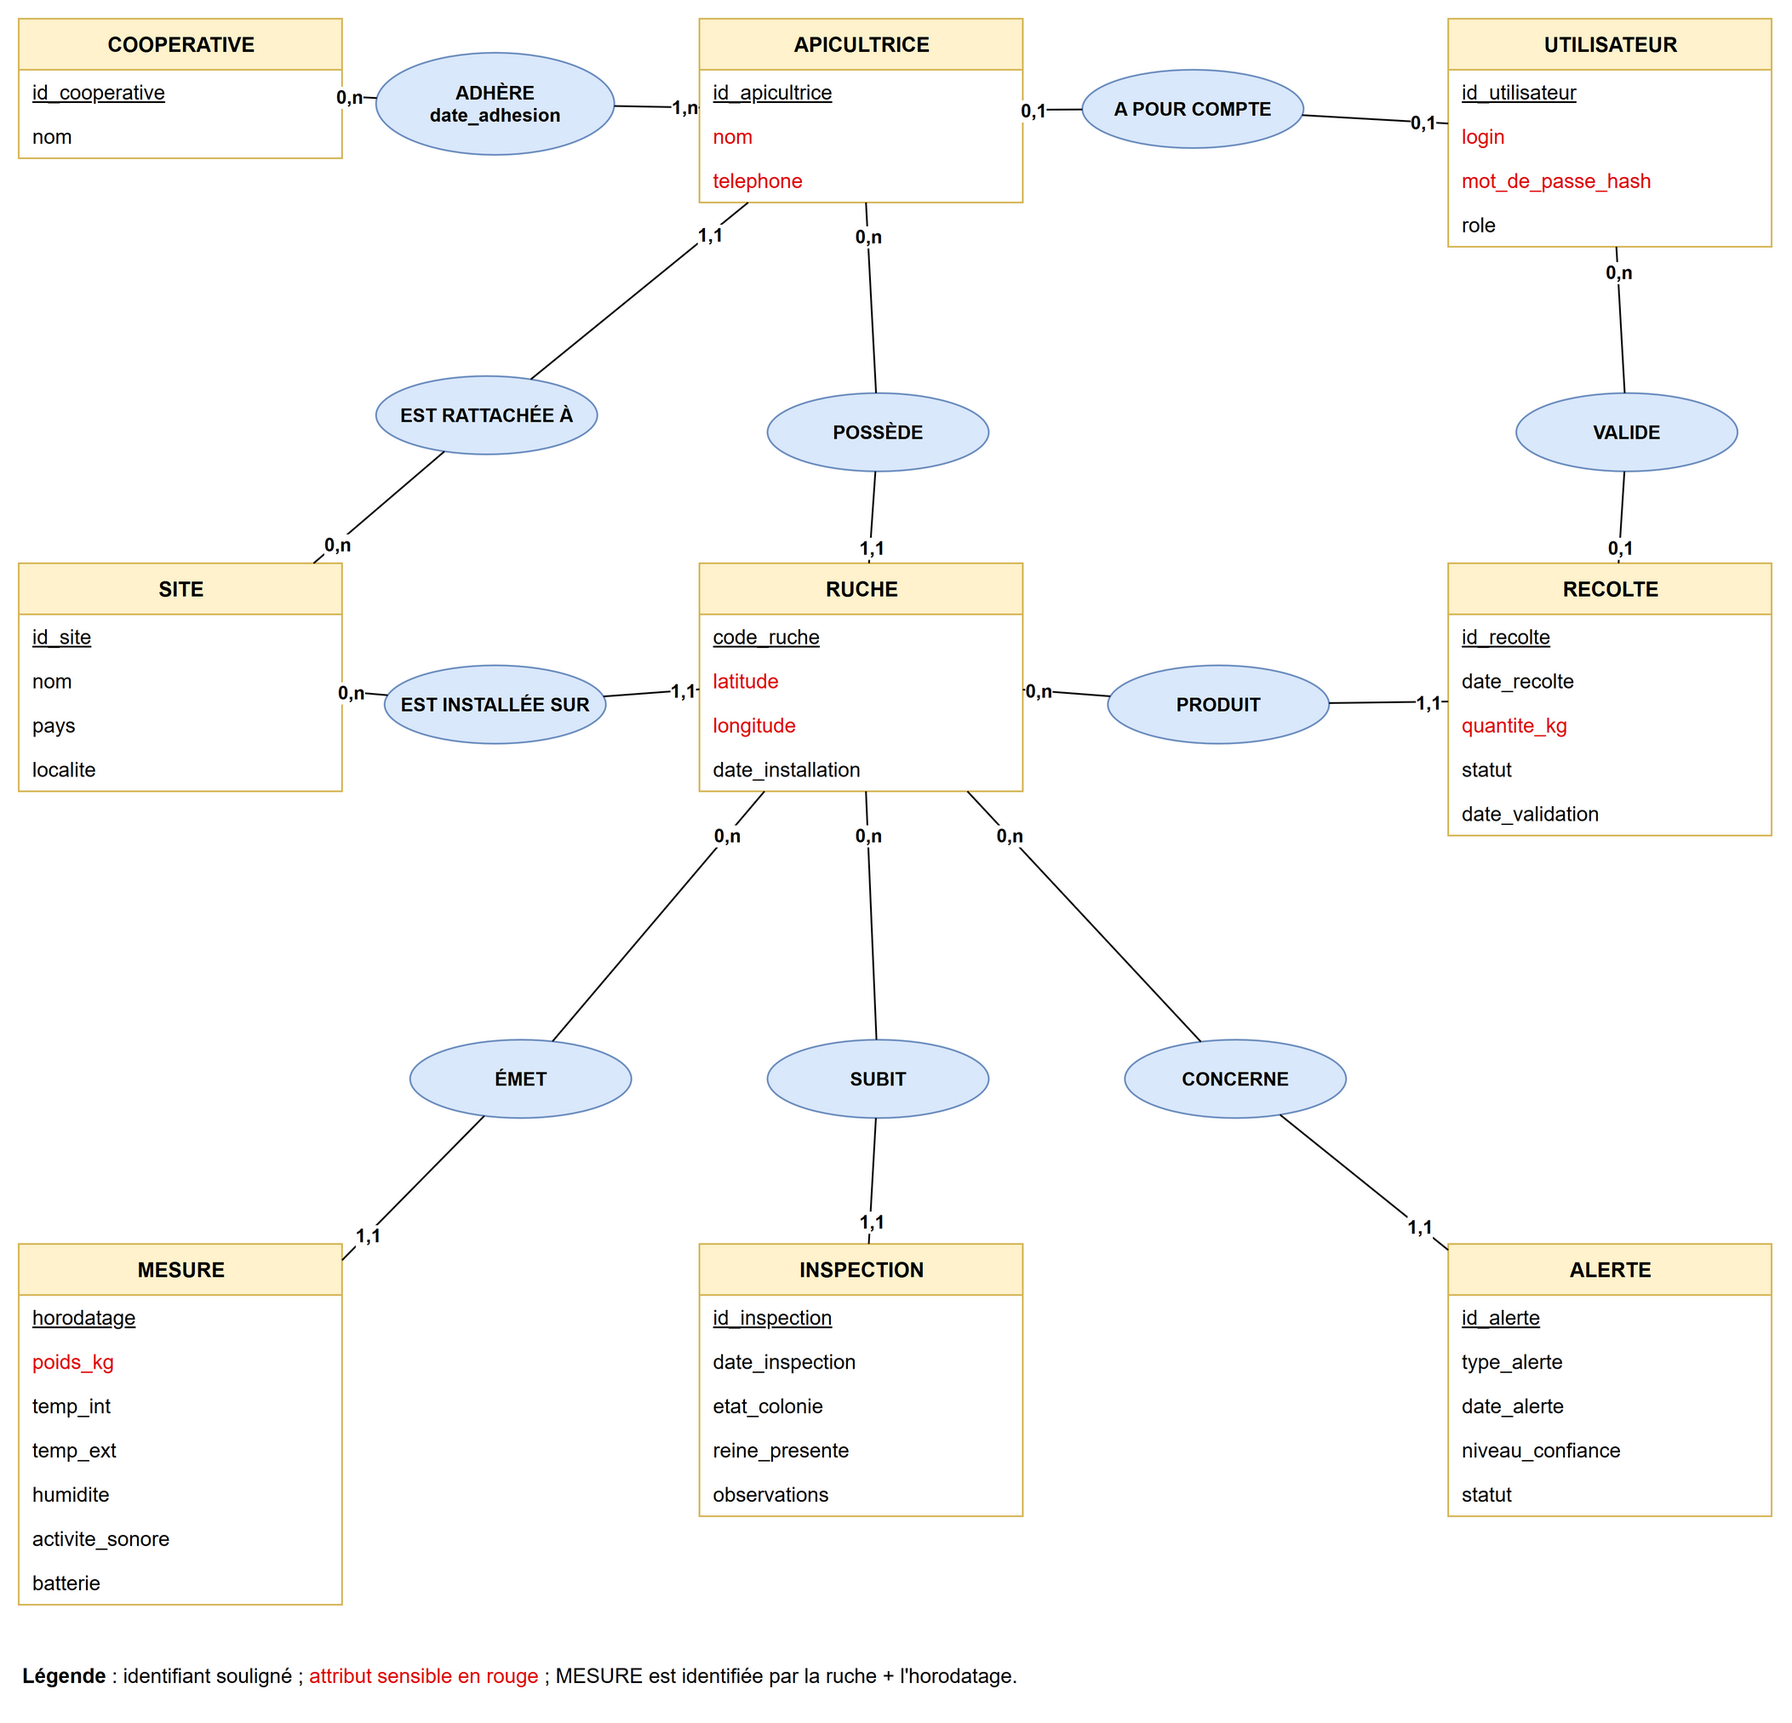
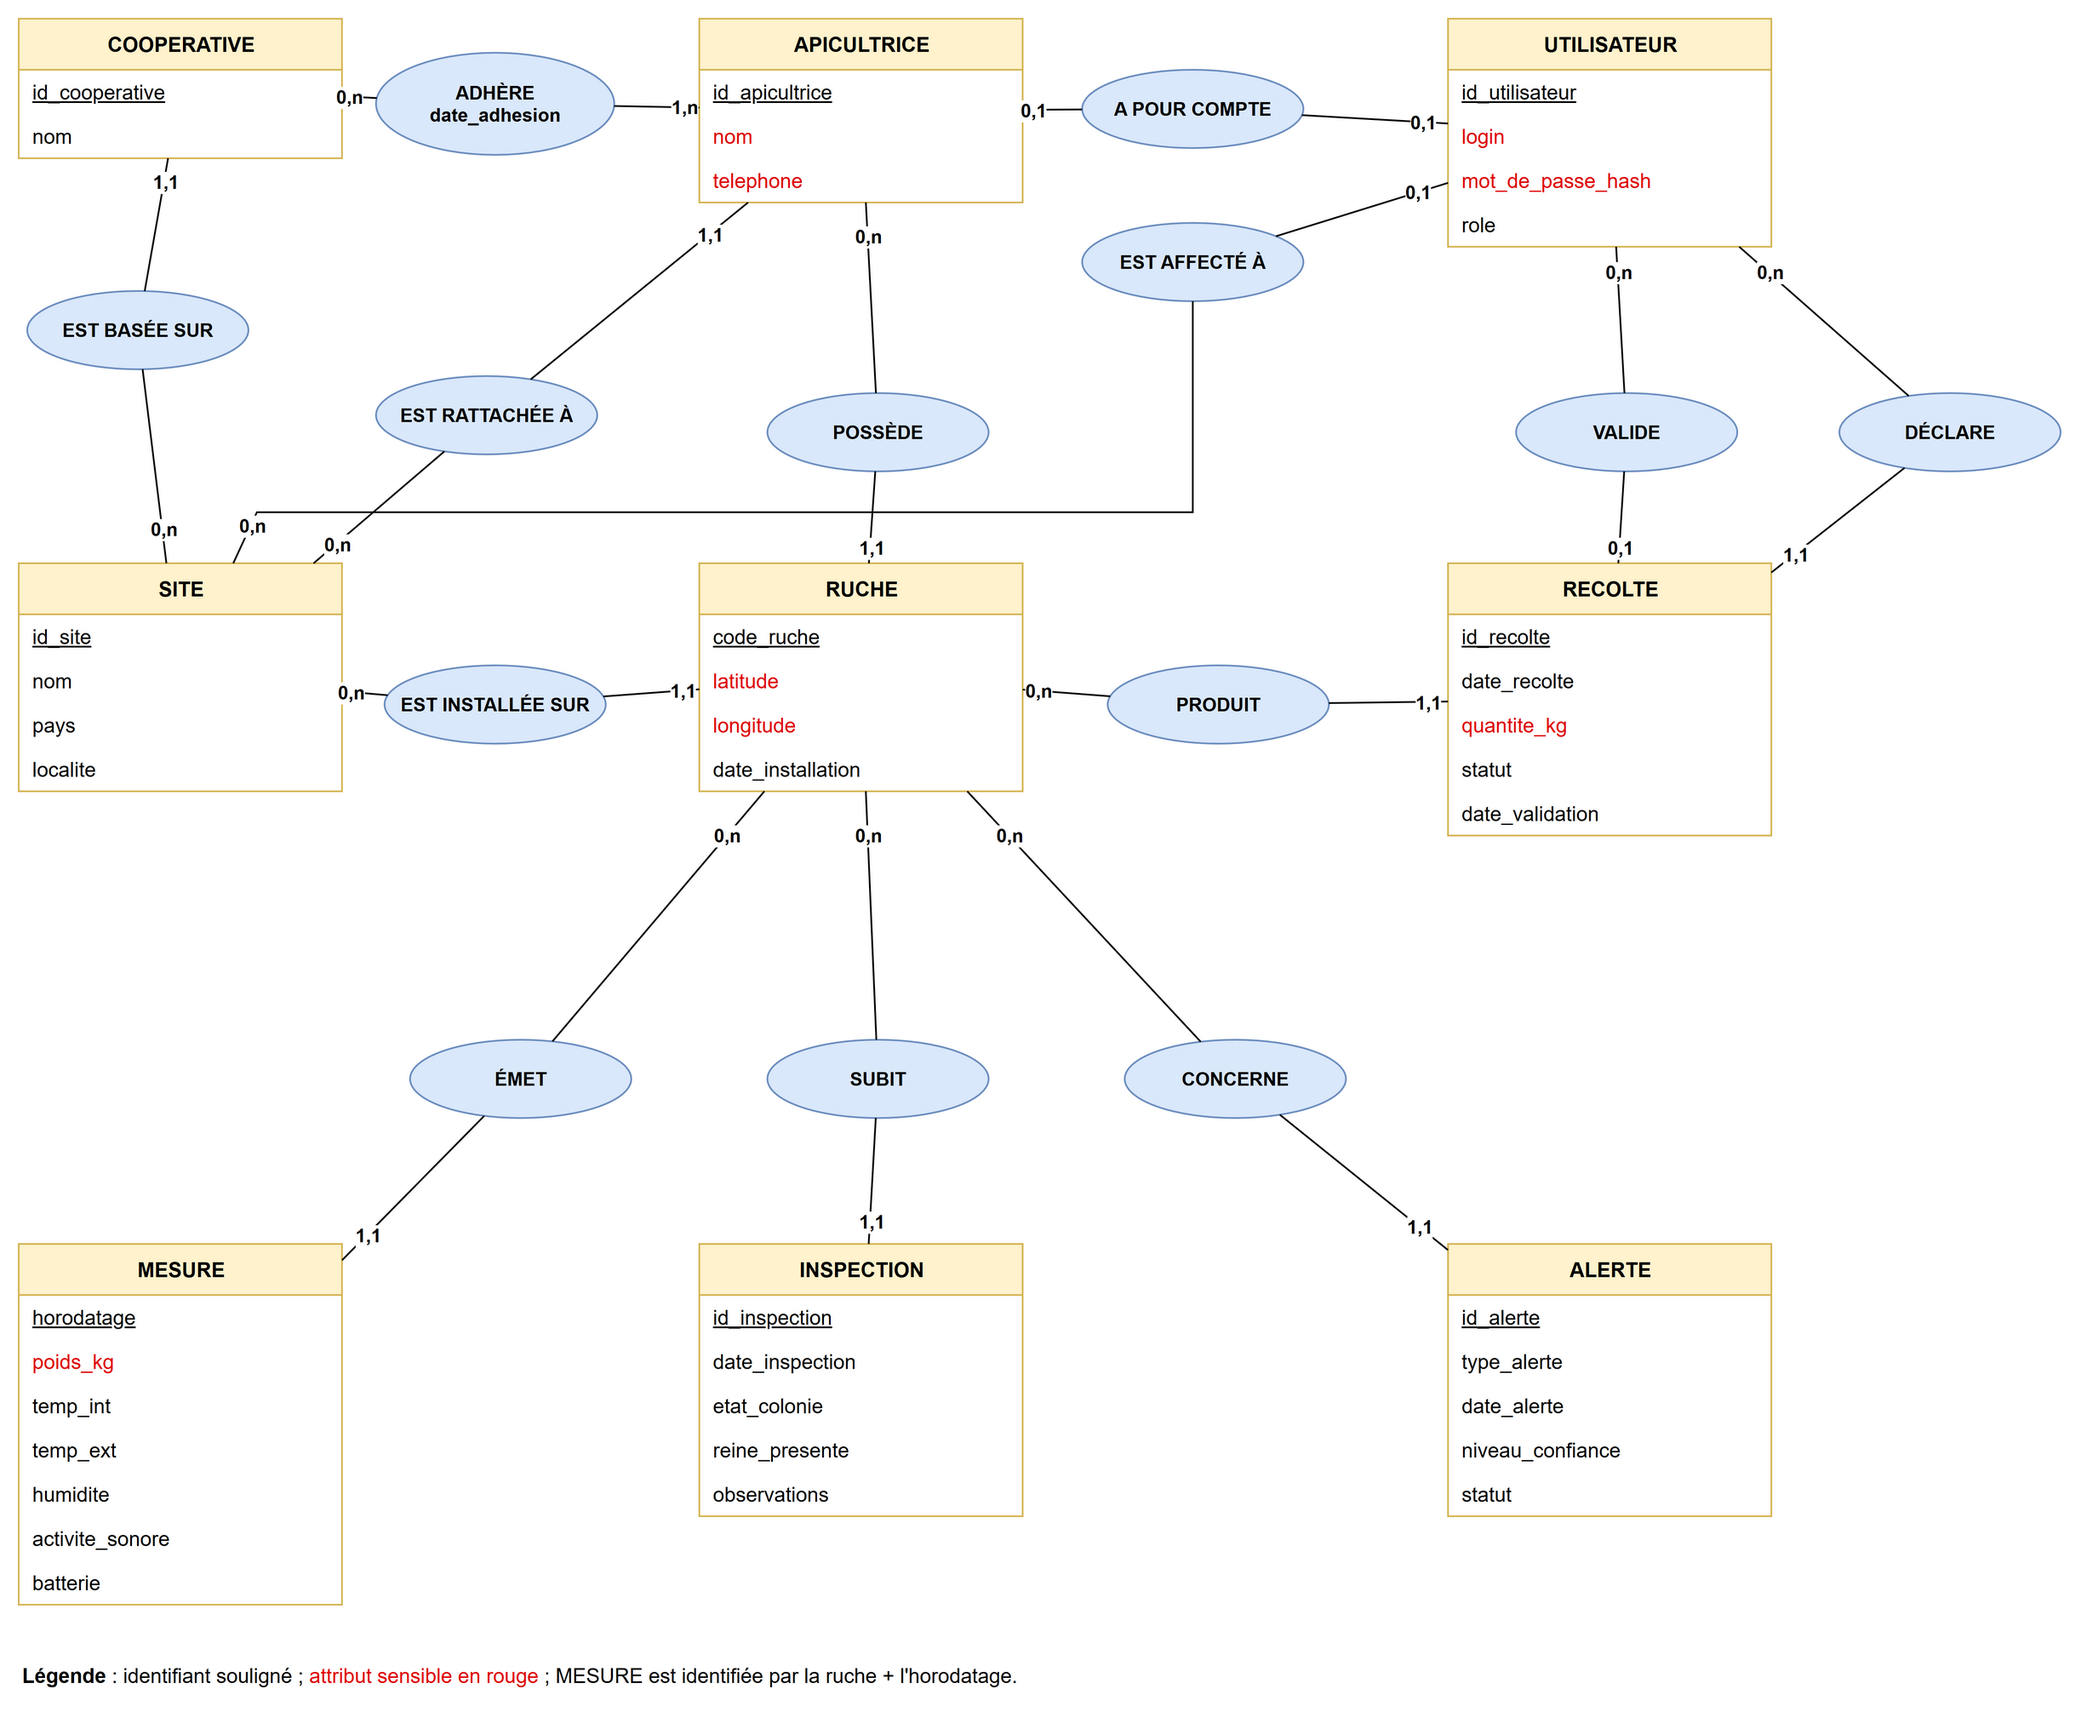
Lab 2 : schéma relationnel

diff --git a/annotations.md b/annotations.md
@@ -38,6 +38,9 @@ Les deux entités sans équivalent dans GreenFarm sont **RÉCOLTE** et **ALERTE*
 | ruche - alerte | une alerte concerne une seule ruche | une ruche a zéro, une ou plusieurs alertes |
 | coordinateur - récolte validée | une récolte est validée par au plus un coordinateur (aucun tant qu'elle n'est pas validée) | un coordinateur valide zéro, une ou plusieurs récoltes |
 | apicultrice - compte de connexion | une apicultrice a au plus un compte | un compte appartient au plus à une apicultrice (les comptes coordinateur, gestionnaire et admin n'en ont pas) |
+| coopérative - site | une coopérative est basée sur un seul site | un site accueille zéro, une ou plusieurs coopératives |
+| compte - site | un compte (de coordinateur) est affecté à au plus un site | un site a zéro, un ou plusieurs comptes affectés |
+| compte - récolte déclarée | une récolte est déclarée par un seul compte | un compte déclare zéro, une ou plusieurs récoltes |
 
 ## Question 4 · Ce que le sujet ne dit pas (hypothèses)
 
@@ -84,3 +87,44 @@ Lettres STRIDE utilisées : S, T, R, I, D, E (les 6).
 2. Le nom n'est **pas unique** (homonymes), il peut **changer** (mariage, faute de frappe), et c'est une donnée personnelle qu'on ne veut pas propager dans d'autres tables.
 3. Le rejeu d'une ancienne mesure de poids, c'est **T** (altération de l'intégrité des données), et souvent **S** aussi quand l'attaquant se fait passer pour le capteur.
 4. **1,1 du côté de RUCHE** (et 0,n du côté d'APICULTRICE).
+
+## Schéma relationnel
+
+Notation : clé primaire en **gras**, clé étrangère précédée de `#`.
+
+| Table | Clé primaire | Autres colonnes | Clés étrangères (vers quelle table) |
+|---|---|---|---|
+| site | **id** (code lisible : `SN-CASA`) | nom, pays, localite | — |
+| cooperative | **id** (uuid) | nom | #site_id (site) |
+| apicultrice | **id** (uuid) | nom, telephone | #site_id (site) |
+| ruche | **id** (uuid) | code (UNIQUE), latitude, longitude, date_installation | #site_id (site), #apicultrice_id (apicultrice) |
+| adhesion | **(apicultrice_id, cooperative_id)** | date_adhesion | #apicultrice_id (apicultrice), #cooperative_id (cooperative) |
+| utilisateur | **id** (uuid) | login, mot_de_passe_hash, role | #site_id (site), #apicultrice_id UNIQUE (apicultrice) |
+| mesure | **id** (bigint identity) ; UNIQUE (ruche_id, horodatage) | horodatage, poids_kg, temp_int_c, temp_ext_c, humidite_pct, activite_sonore_db, batterie_pct | #ruche_id (ruche) |
+| inspection | **id** (uuid) | date_inspection, etat_colonie, reine_presente, observations | #ruche_id (ruche) |
+| recolte | **id** (uuid) | date_recolte, quantite_kg, statut, date_validation | #ruche_id (ruche), #declaree_par (utilisateur), #validee_par (utilisateur) |
+| alerte | **id** (uuid) | type_alerte, date_alerte, niveau_confiance, statut | #ruche_id (ruche) |
+
+**10 tables, 14 clés étrangères.** Les règles appliquées :
+- **Règle 1** : chaque entité devient une table. Le site garde un code lisible (court, stable, pas secret). Tout ce que l'application exposera (ruches, personnes, comptes, récoltes) reçoit un UUID, car un numéro 1, 2, 3 se devine.
+- **Règle 2** : chaque lien 1,1 - 0,n devient une clé étrangère du côté 1,1 (`ruche.site_id`, `ruche.apicultrice_id`, `mesure.ruche_id`...).
+- **Règle 3** : le lien n,n ADHÈRE devient la table `adhesion`. Sa clé primaire réunit les deux clés étrangères, et la table porte `date_adhesion`.
+- **Règle 4** : le lien 0,1 - 0,1 entre l'apicultrice et son compte devient `utilisateur.apicultrice_id UNIQUE` : jamais deux comptes pour une apicultrice.
+- Les deux liens entre UTILISATEUR et RÉCOLTE (DÉCLARE, VALIDE) ne portent pas le nom de la table visée. Ils deviennent `declaree_par` et `validee_par`, qui pointent tous deux vers `utilisateur`.
+
+Les règles de sécurité posées dans `schema.sql` :
+- `mesure_anti_rejeu UNIQUE (ruche_id, horodatage)` empêche de rejouer une mesure.
+- `recolte_quantite_positive` interdit une quantité nulle ou négative.
+- `recolte_validation_tracee` garantit qu'une récolte validée ou refusée a toujours un validateur et une date, et qu'une récolte simplement déclarée n'en a pas.
+- `recolte_pas_auto_validation` empêche de valider sa propre récolte.
+- `alerte_confiance_bornee` limite le niveau de confiance entre 0 et 1.
+- Un compte de rôle « apicultrice » pointe obligatoirement vers une apicultrice, et un coordinateur a toujours un site.
+
+**Relancer `donnees.sql` une seconde fois, sans `schema.sql`** : le premier INSERT échoue avec `la valeur d'une clé dupliquée rompt la contrainte unique « site_pkey » ; la clé « (id)=(SN-CASA) » existe déjà`. Grâce à `BEGIN; ... COMMIT;`, toute la transaction est annulée. Rien n'est doublé : il y a toujours 11 ruches. Deux règles protègent la base : la **clé primaire de `site`**, un code lisible et donc stable d'un lancement à l'autre, et l'**atomicité de la transaction**. Le `UNIQUE` sur `ruche.code` et l'anti-rejeu des mesures bloqueraient aussi plus loin.
+
+### Testez-vous · Lab 2
+
+1. Dans la table du côté **1,1** : par exemple, la ruche porte `apicultrice_id`.
+2. Parce qu'une ligne d'association est identifiée par le **couple** (apicultrice, coopérative). Chaque colonne seule se répète : une apicultrice adhère à plusieurs coopératives. Le couple, lui, ne doit apparaître qu'une fois, sinon une même adhésion serait enregistrée deux fois.
+3. Elle protège contre le **rejeu** : renvoyer une ancienne mesure (même ruche, même instant) pour masquer une chute de poids est refusé (menace T).
+4. Parce que `ruche.site_id REFERENCES site(id)` exige que la table visée existe déjà au moment du `CREATE TABLE`.
